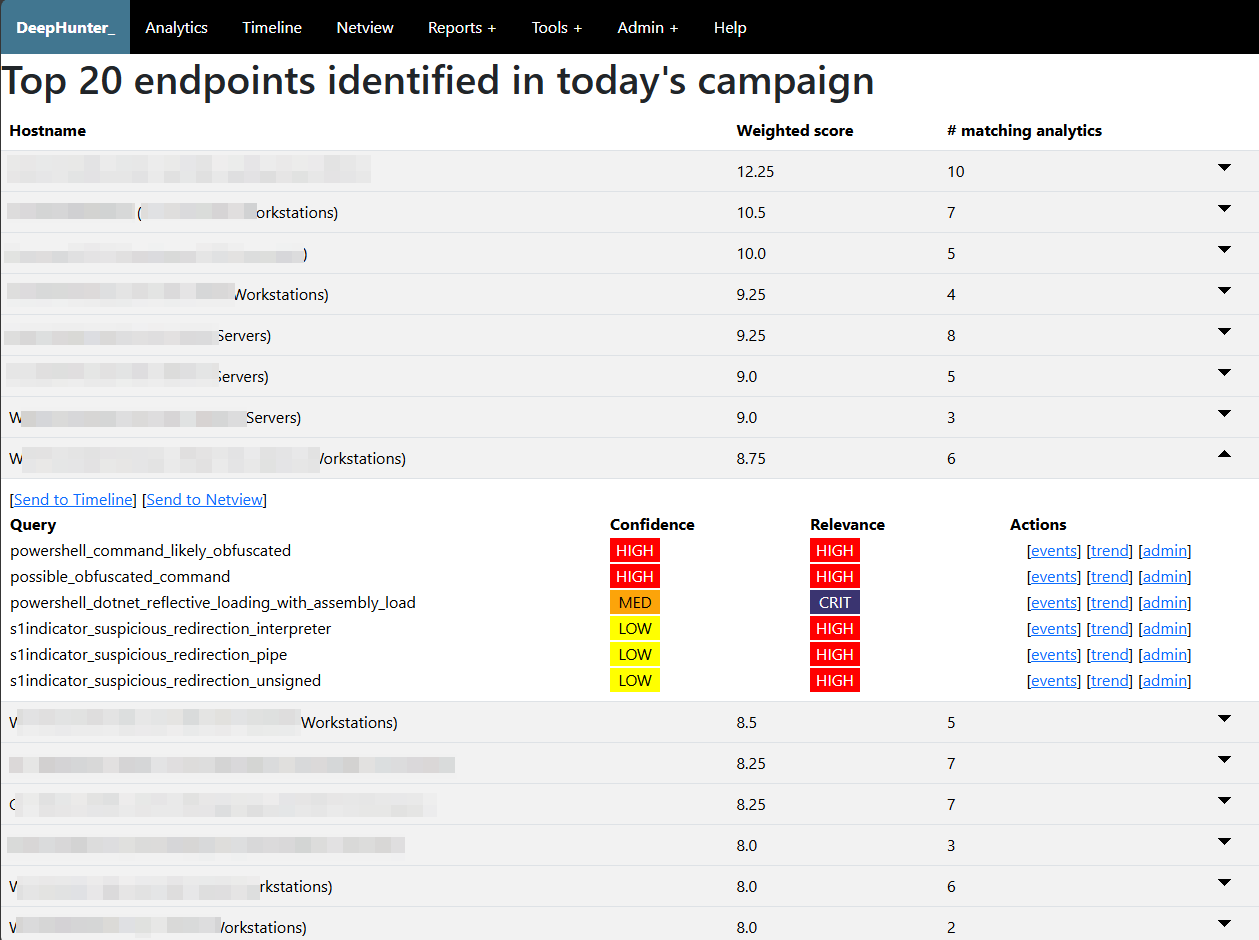
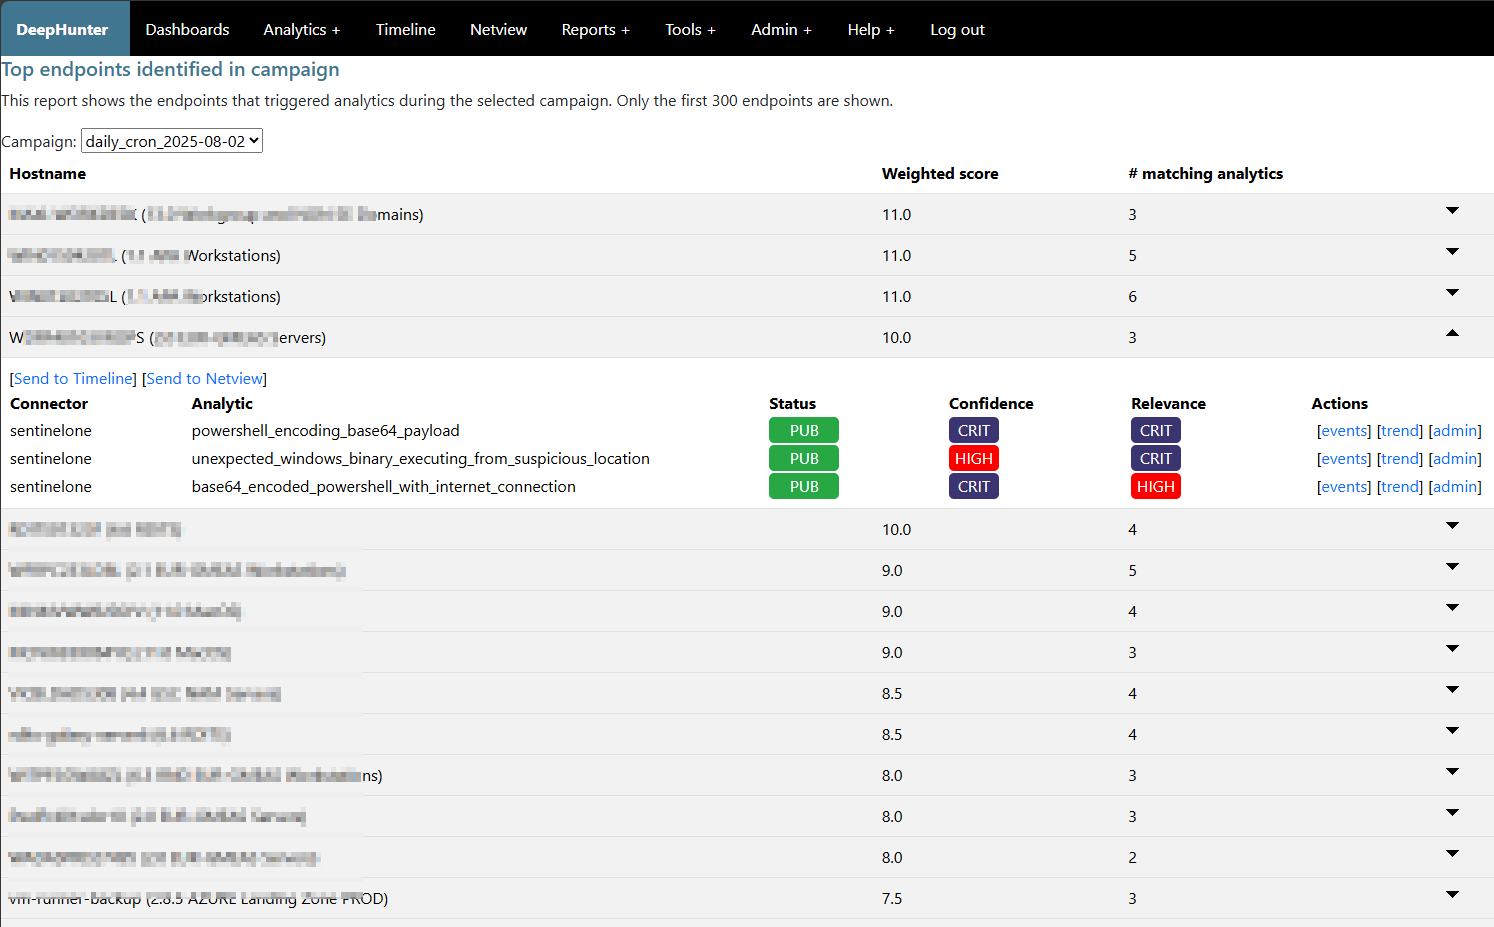
updated doc

diff --git a/docs/reports/endpoints.rst b/docs/reports/endpoints.rst
@@ -3,7 +3,7 @@ Last campaign endpoints
 
 Description
 ***********
-This report shows a list of the top 20 endpoints (highest weighted scores) identified in the last campaign.
+This report shows a list of the top 300 endpoints (highest weighted scores) identified in the selected campaign. The list of endpoints is automatically refresh when a different campaign is selected from the dropdown.
 
 .. image:: ../img/reports_endpoints.png
   :width: 1000
